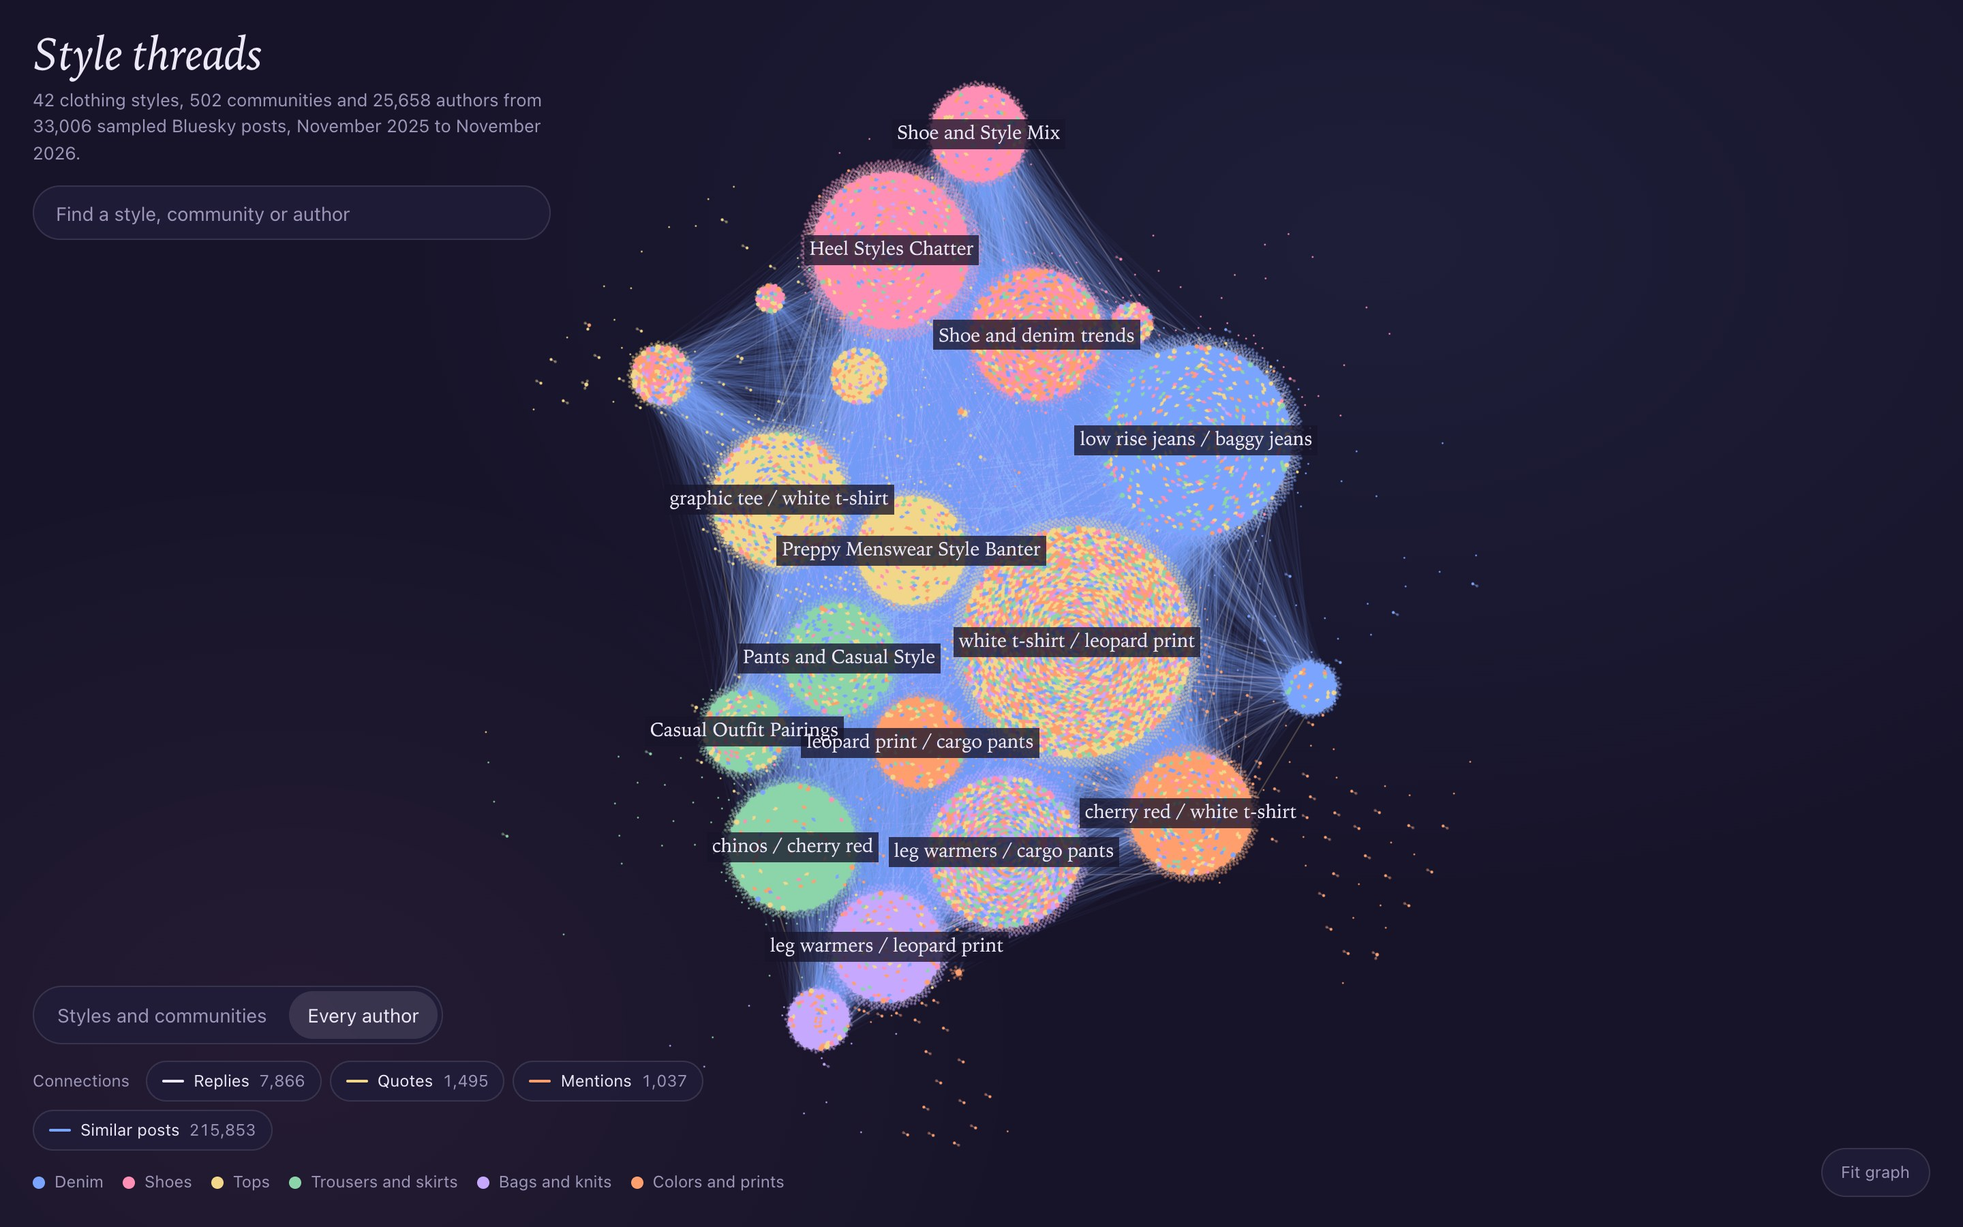
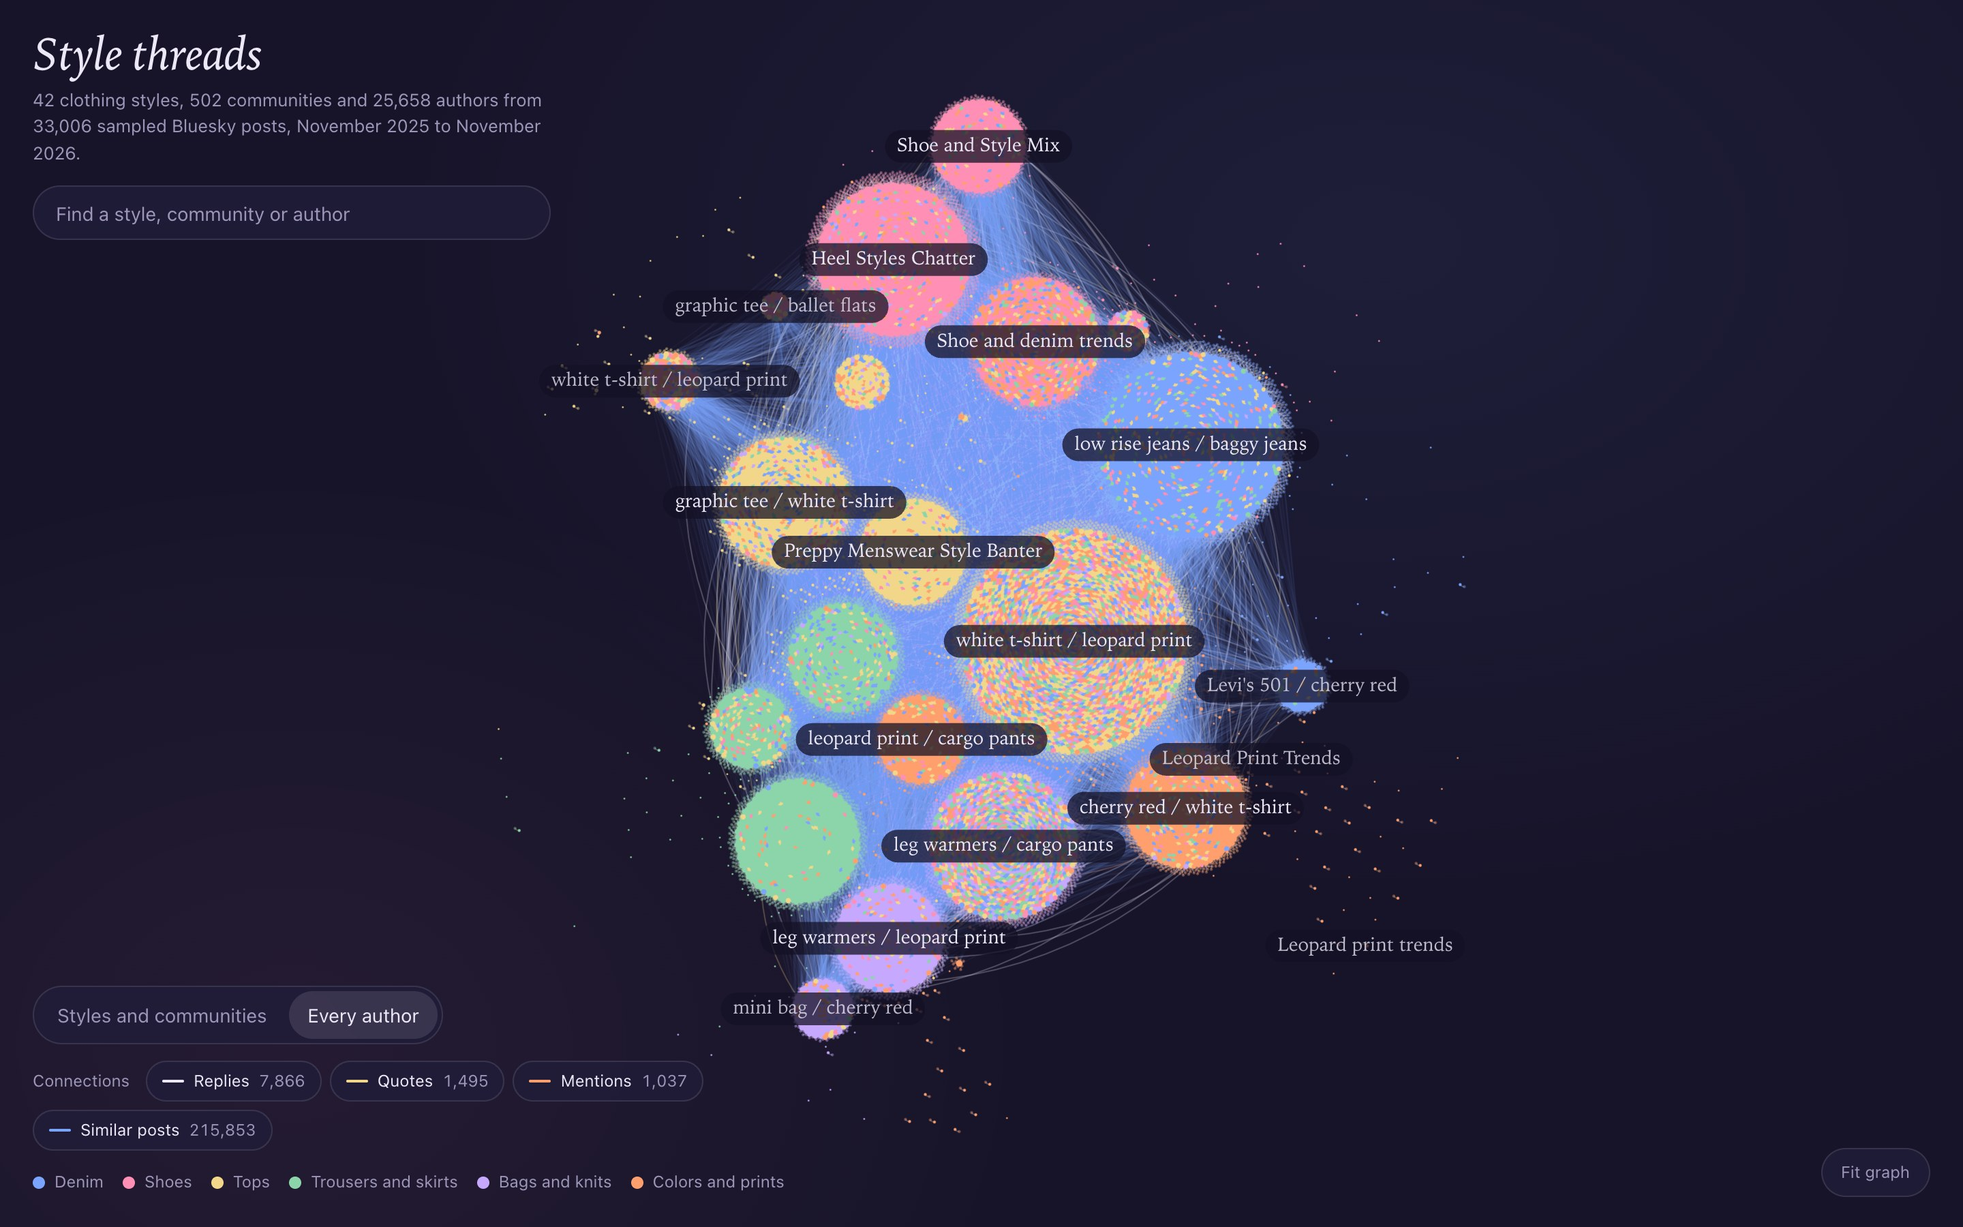
graph-explorer: curved threads, glows and haloed labels
- Labels and glows are drawn on 2D overlay canvases synced to sigma's afterRender: serif labels with a soft halo instead of boxes, pill labels over author discs, priority-ordered collision culling, rings on hover and selection.
- Edges use sigma's curved path (curvature is a style property, default 0). Threads from tiny communities are fainter; community beads are smaller.
- Style labels are separated at the renderer's real scale with measured text, so all 42 sit to the right of their own node.
- Overlay redraws after a view switch. Refreshed docs/images.

Changed region(s): [[0.2812, 0.0622, 0.6875, 0.8711], [0.6562, 0.7467, 0.7188, 0.7778]]

diff --git a/dashboard/graph.js b/dashboard/graph.js
@@ -102,20 +102,21 @@
       const angle = i * 2.399963;
       g.addNode(`c${c.id}`, {
         x: anchor.x + Math.cos(angle) * 12, y: anchor.y + Math.sin(angle) * 12,
-        size: 1.6 + Math.sqrt(c.authors) * 0.2, color: alpha(c.color, 0.7), baseColor: c.color,
+        size: 1.3 + Math.sqrt(c.authors) * 0.14, color: alpha(c.color, 0.62), baseColor: c.color,
         label: c.name, kind: "community", ref: c.id, family: c.family,
       });
     });
     // A community attaches only to the styles that define it: up to three with at least a
     // 15 percent share of its style posts. Every link is still listed in the inspector.
-    communities.forEach(({ id: c, top_styles: rows }) => {
+    communities.forEach(({ id: c, top_styles: rows, authors: size }) => {
       const total = rows.reduce((sum, [, p]) => sum + p, 0);
+      const presence = Math.min(1, 0.35 + Math.log10(1 + size) * 0.4);
       rows.forEach(([s, posts], rank) => {
         const share = posts / total;
         if (rank > 2 || (rank > 0 && share < 0.15)) return;
         g.mergeEdge(`s${s}`, `c${c}`, {
-          weight: 1 + share * 6, kind: "membership", color: alpha(styles[s].color, 0.16 + share * 0.3),
-          size: 0.5 + share * 2.2,
+          weight: 1 + share * 6, kind: "membership", color: alpha(styles[s].color, (0.08 + share * 0.24) * presence),
+          size: (0.3 + share * 1.3) * presence,
         });
       });
     });
@@ -180,7 +181,7 @@
       const edgeColor = key === "similarity" ? alpha(color, 0.05) : alpha(color, 0.3);
       for (let k = 0; k < flat.length; k += 2) {
         g.addEdgeWithKey(`${key}${k}`, `a${flat[k]}`, `a${flat[k + 1]}`, {
-          kind: key, color: edgeColor, size: key === "similarity" ? 0.3 : 0.6,
+          kind: key, color: edgeColor, size: key === "similarity" ? 0.3 : 0.6, path: key === "similarity" ? "line" : "curved",
         });
       }
     });
@@ -240,58 +241,36 @@
   function makeRenderer(g) {
     if (state.renderer) state.renderer.kill();
     const isAuthors = state.view === "authors";
-    // On phones the style labels are culled by density and revealed by zooming.
-    const narrow = window.innerWidth < 760;
     const renderer = new Sigma(g, $("stage"), {
       settings: {
+        // Labels and glows are drawn by drawOverlay() for halo text and real collision culling.
+        renderLabels: false,
         hideEdgesOnMove: isAuthors,
-        labelRenderedSizeThreshold: isAuthors ? 9 : 4,
-        labelDensity: isAuthors ? 0.4 : 0.8, labelGridCellSize: 90,
         zIndex: true, minCameraRatio: 0.02, maxCameraRatio: 4,
         // Sizes are screen pixels that grow gently on zoom, like Obsidian's graph view.
         itemSizesReference: "screen", zoomToSizeRatioFunction: (ratio) => Math.pow(ratio, 0.35),
-        stagePadding: 60,
+        stagePadding: 70,
       },
-      customGraphState: { focus: false, closeUp: false, litCount: 0 },
-      primitives: { depthLayers: ["edges", "nodes", "litEdges", "litNodes", "topNodes"] },
+      customGraphState: { focus: false },
+      primitives: {
+        depthLayers: ["edges", "nodes", "litEdges", "litNodes", "topNodes"],
+        // Threads: gently curved edges; straight lines for the dense similarity layer.
+        edges: { paths: [Sigma.rendering.pathLine(), Sigma.rendering.pathCurved({ curvature: 0.22, segments: 16 })] },
+      },
       styles: {
         nodes: [
           DEFAULT_STYLES.nodes,
-          {
-            color: { attribute: "color" }, size: { attribute: "size" }, label: { attribute: "label" },
-            labelColor: "#ECE8F7", labelSize: 13,
-            // Dark hover card instead of sigma's default white backdrop.
-            backdropColor: "rgba(32, 28, 56, 0.96)", backdropShadowColor: "rgba(5, 3, 15, 0.6)", backdropShadowBlur: 18,
-            labelFont: '"Iowan Old Style", "Palatino Linotype", Palatino, Georgia, serif',
-          },
-          { when: (a) => a.kind === "style", then: { labelSize: 15, labelVisibility: isAuthors || narrow ? "auto" : "visible",
-            labelBackgroundColor: "rgba(23, 20, 42, 0.72)", labelBackgroundPadding: 3 } },
-          { when: (a) => a.kind === "community", then: { labelColor: "rgba(236, 232, 247, 0.66)", labelSize: 11.5 } },
-          // Community labels appear on zoom, hover or selection so style names stay readable.
-          { when: (a, _s, gs) => a.kind === "community" && !a.anchor && !gs.closeUp, then: { labelVisibility: "hidden" } },
-          { when: (a) => a.anchor, then: { labelSize: 13, labelColor: "#ECE8F7", labelPosition: "over",
-            labelBackgroundColor: "rgba(23, 20, 42, 0.78)", labelBackgroundPadding: 4 } },
-          { when: (a) => a.anchor === "major", then: { labelVisibility: "visible", labelSize: 14 } },
-          { when: (a) => !nodeVisible(a), then: { color: DIM, label: "" } },
-          { when: (_a, s, gs) => gs.focus && !s.lit, then: { color: DIM, label: "" } },
+          { color: { attribute: "color" }, size: { attribute: "size" }, label: { attribute: "label" }, backdropVisibility: "hidden" },
+          { when: (a) => !nodeVisible(a), then: { color: DIM } },
+          { when: (_a, s, gs) => gs.focus && !s.lit, then: { color: DIM } },
           { whenState: "lit", then: { depth: "litNodes" } },
-          { when: (a, s) => s.lit && a.kind === "style", then: { labelVisibility: "visible" } },
-          { when: (a, s) => s.lit && a.kind === "community", then: { labelVisibility: "auto" } },
-          { when: (a, s, gs) => s.lit && a.kind === "author" && gs.litCount <= 25, then: { labelVisibility: "visible", labelSize: 12 } },
-          {
-            whenState: "isHovered",
-            then: { depth: "topNodes", labelVisibility: "visible", labelColor: "#ECE8F7",
-              labelBackgroundColor: "rgba(23, 20, 42, 0.92)", labelBackgroundPadding: 4 },
-          },
-          {
-            whenState: "selected",
-            then: { depth: "topNodes", labelVisibility: "visible", labelSize: 16, labelColor: "#ECE8F7",
-              labelBackgroundColor: "rgba(23, 20, 42, 0.92)", labelBackgroundPadding: 4 },
-          },
+          { whenState: "isHovered", then: { depth: "topNodes" } },
+          { whenState: "selected", then: { depth: "topNodes" } },
         ],
         edges: [
           DEFAULT_STYLES.edges,
-          { color: { attribute: "color" }, size: { attribute: "size" } },
+          { color: { attribute: "color" }, size: { attribute: "size" }, path: { attribute: "path", defaultValue: "curved" },
+            curvature: { attribute: "curvature", defaultValue: 0.24 } },
           { when: (a) => state.hiddenKinds.has(a.kind), then: { visibility: "hidden" } },
           { when: (a, s) => a.kind === "membership-minor" && !s.lit, then: { visibility: "hidden" } },
           { when: (_a, s, gs) => gs.focus && !s.lit, then: { visibility: "hidden" } },
@@ -299,17 +278,154 @@
         ],
       },
     });
-    renderer.getCamera().on("updated", ({ ratio }) => {
-      const closeUp = ratio < 0.45;
-      if (closeUp !== renderer.getGraphState().closeUp) renderer.setGraphState({ closeUp });
-    });
+    renderer.on("afterRender", drawOverlay);
     renderer.on("enterNode", ({ node, event }) => { state.hovered = node; applyFocus(); showTooltip(node, event); });
     renderer.on("leaveNode", () => { state.hovered = null; applyFocus(); $("tooltip").hidden = true; });
     renderer.on("clickNode", ({ node }) => select(node, { animate: true, keepZoom: true }));
     renderer.on("clickStage", () => clearSelection());
     state.renderer = renderer;
     state.graph = g;
+    // The constructor renders before state points at this graph; redraw the overlay for it now.
+    drawOverlay();
     return renderer;
+  }
+
+  // ---------- overlay: glows under the WebGL canvas, haloed labels above it ----------
+
+  const SERIF = '"Iowan Old Style", "Palatino Linotype", Palatino, Georgia, serif';
+  const overlay = { glow: null, labels: null };
+
+  function overlayCanvas(id, z) {
+    let canvas = document.getElementById(id);
+    if (!canvas) {
+      canvas = document.createElement("canvas");
+      canvas.id = id;
+      canvas.className = "overlay";
+      canvas.style.zIndex = z;
+      document.body.insertBefore(canvas, $("stage").nextSibling);
+    }
+    const dpr = window.devicePixelRatio || 1;
+    const w = window.innerWidth, h = window.innerHeight;
+    if (canvas.width !== Math.round(w * dpr) || canvas.height !== Math.round(h * dpr)) {
+      canvas.width = Math.round(w * dpr); canvas.height = Math.round(h * dpr);
+    }
+    const ctx = canvas.getContext("2d");
+    ctx.setTransform(dpr, 0, 0, dpr, 0, 0);
+    ctx.clearRect(0, 0, w, h);
+    return ctx;
+  }
+
+  function screenNode(node) {
+    const { renderer } = state;
+    const d = renderer.getNodeDisplayData(node);
+    if (!d) return null;
+    const p = renderer.framedGraphToViewport({ x: d.x, y: d.y });
+    return { x: p.x, y: p.y, r: renderer.scaleSize(d.size), d };
+  }
+
+  function drawOverlay() {
+    const { renderer, graph } = state;
+    if (!renderer || !graph) return;
+    const glow = overlayCanvas("glow-layer", 0);
+    const labels = overlayCanvas("label-layer", 2);
+    const W = window.innerWidth, H = window.innerHeight;
+    const focus = renderer.getGraphState().focus;
+    const ratio = renderer.getCamera().getState().ratio;
+    const onScreen = (p) => p && p.x > -60 && p.x < W + 60 && p.y > -60 && p.y < H + 60;
+
+    // Soft glows behind style nodes and anything lit, so the graph reads like light, not flat paper.
+    glow.globalCompositeOperation = "lighter";
+    graph.forEachNode((node, a) => {
+      const st = renderer.getNodeState(node);
+      const important = a.kind === "style" || st.lit || node === state.selected;
+      if (!important || (focus && !st.lit) || !nodeVisible(a)) return;
+      const p = screenNode(node);
+      if (!onScreen(p)) return;
+      const base = a.baseColor || a.color;
+      const radius = p.r * (node === state.selected || node === state.hovered ? 5 : 3.4);
+      const gradient = glow.createRadialGradient(p.x, p.y, p.r * 0.6, p.x, p.y, radius);
+      gradient.addColorStop(0, alpha(base.startsWith("#") ? base : "#ECE8F7", node === state.selected ? 0.42 : 0.24));
+      gradient.addColorStop(1, alpha(base.startsWith("#") ? base : "#ECE8F7", 0));
+      glow.fillStyle = gradient;
+      glow.beginPath(); glow.arc(p.x, p.y, radius, 0, Math.PI * 2); glow.fill();
+    });
+
+    // Labels in priority order. A label is skipped if its box would overlap one already drawn.
+    const candidates = [];
+    const add = (node, a, priority) => candidates.push({ node, a, priority });
+    graph.forEachNode((node, a) => {
+      const st = renderer.getNodeState(node);
+      if (!nodeVisible(a) && node !== state.selected) return;
+      if (node === state.selected) return add(node, a, 0);
+      if (node === state.hovered) return add(node, a, 1);
+      if (focus) {
+        if (!st.lit) return;
+        if (a.kind === "style") return add(node, a, 2);
+        if (a.kind === "community") return add(node, a, 3 + 1 / (1 + (a.size || 0)));
+        return add(node, a, 4 + 1 / (1 + (a.size || 0)));
+      }
+      if (a.kind === "style") return add(node, a, 2 + 1 / (1 + a.size));
+      if (a.anchor) return add(node, a, a.anchor === "major" ? 3 : 5);
+      if (a.kind === "community" && ratio < 0.45) return add(node, a, 6 + 1 / (1 + a.size));
+    });
+    candidates.sort((x, y) => x.priority - y.priority);
+    const placed = [];
+    // Style nodes reserve their own disc so no label is drawn over them.
+    graph.forEachNode((node, a) => {
+      if (a.kind !== "style" || (focus && !renderer.getNodeState(node).lit)) return;
+      const p = screenNode(node);
+      if (onScreen(p)) placed.push({ x: p.x - p.r, y: p.y - p.r, w: p.r * 2, h: p.r * 2 });
+    });
+    const overlaps = (box) => placed.some((b) => box.x < b.x + b.w && box.x + box.w > b.x && box.y < b.y + b.h && box.y + box.h > b.y);
+    labels.textBaseline = "middle";
+    labels.lineJoin = "round";
+    for (const { node, a, priority } of candidates) {
+      const p = screenNode(node);
+      if (!onScreen(p)) continue;
+      const strong = priority < 2 || a.kind === "style" || a.anchor === "major";
+      const size = node === state.selected ? 17 : a.kind === "style" ? (a.size > 14 ? 16 : 14.5) : a.anchor ? 14 : 12.5;
+      labels.font = `${a.kind === "author" ? "500 " : ""}${size}px ${a.kind === "author" ? "-apple-system, system-ui, sans-serif" : SERIF}`;
+      const text = a.label;
+      const width = labels.measureText(text).width;
+      // Candidate spots: right of the node first; styles may also sit left, above or below.
+      const gap = p.r + 7;
+      const spots = a.anchor ? [[p.x - width / 2, p.y]]
+        : a.kind === "style" || priority < 2 ? [[p.x + gap, p.y], [p.x - gap - width, p.y]] : [[p.x + gap, p.y]];
+      let chosen = null;
+      for (const [x, y] of spots) {
+        const pad = a.anchor ? 12 : 3;
+        const box = { x: x - pad, y: y - size * 0.62 - (a.anchor ? 4 : 0), w: width + pad * 2, h: size * 1.24 + (a.anchor ? 8 : 0) };
+        if (priority < 2 || !overlaps(box)) { chosen = { x, y, box }; break; }
+      }
+      if (!chosen) continue;
+      placed.push(chosen.box);
+      if (a.anchor) {
+        // Over busy author discs a soft pill reads better than a text halo.
+        const padX = 9, h = size + 10, x0 = chosen.x - padX, y0 = chosen.y - h / 2, w0 = width + padX * 2;
+        labels.fillStyle = "rgba(19, 16, 36, 0.74)";
+        labels.beginPath();
+        labels.roundRect ? labels.roundRect(x0, y0, w0, h, h / 2) : labels.rect(x0, y0, w0, h);
+        labels.fill();
+        labels.fillStyle = a.anchor === "major" ? "#ECE8F7" : "rgba(236, 232, 247, 0.78)";
+        labels.fillText(text, chosen.x, chosen.y);
+        continue;
+      }
+      labels.lineWidth = 4.5;
+      labels.strokeStyle = "rgba(19, 16, 36, 0.88)";
+      labels.strokeText(text, chosen.x, chosen.y);
+      labels.fillStyle = strong ? "#ECE8F7" : "rgba(236, 232, 247, 0.68)";
+      labels.fillText(text, chosen.x, chosen.y);
+    }
+
+    // Rings mark the hovered and selected nodes.
+    for (const node of [state.hovered, state.selected]) {
+      if (!node || !graph.hasNode(node)) continue;
+      const p = screenNode(node);
+      if (!onScreen(p)) continue;
+      labels.lineWidth = 1.5;
+      labels.strokeStyle = "rgba(236, 232, 247, 0.85)";
+      labels.beginPath(); labels.arc(p.x, p.y, p.r + 4, 0, Math.PI * 2); labels.stroke();
+    }
   }
 
   function applyFocus() {
@@ -328,7 +444,7 @@
     graph.forEachEdge((edge, attrs, source, target) => {
       renderer.setEdgeState(edge, { lit: !!anchor && (source === anchor || target === anchor) });
     });
-    renderer.setGraphState({ focus: !!anchor, litCount: lit.size });
+    renderer.setGraphState({ focus: !!anchor });
     renderer.refresh({ skipIndexation: true });
   }
 
@@ -387,10 +503,13 @@
     });
     const container = $("stage");
     const unitsPerPx = Math.max((maxX - minX) / (container.clientWidth * 0.62), (maxY - minY) / (container.clientHeight * 0.82));
-    const boxes = styles.map(({ node, a }) => ({
-      node, x: a.x, y: a.y,
-      w: (a.size * 2 + 10 + a.label.length * 8.2) * unitsPerPx, h: 22 * unitsPerPx, r: a.size * unitsPerPx,
-    }));
+    const measure = document.createElement("canvas").getContext("2d");
+    const boxes = styles.map(({ node, a }) => {
+      // Same font as drawOverlay, plus the halo and a little air.
+      measure.font = `${a.size > 14 ? 16 : 14.5}px ${SERIF}`;
+      const textWidth = measure.measureText(a.label).width;
+      return { node, x: a.x, y: a.y, w: (a.size + 7 + textWidth + 14) * unitsPerPx, h: 24 * unitsPerPx, r: a.size * unitsPerPx };
+    });
     for (let pass = 0; pass < 120; pass++) {
       let moved = false;
       for (let i = 0; i < boxes.length; i++) {
@@ -413,6 +532,50 @@
     boxes.forEach((b) => g.mergeNodeAttributes(b.node, { y: b.y }));
   }
 
+  // Second pass using the renderer's real scale: measured text and node radii, separated in graph units.
+  function separateOnScreen(g) {
+    const { renderer } = state;
+    const o = renderer.viewportToGraph({ x: 0, y: 0 }), e = renderer.viewportToGraph({ x: 100, y: 0 });
+    const unitsPerPx = Math.hypot(e.x - o.x, e.y - o.y) / 100;
+    const measure = document.createElement("canvas").getContext("2d");
+    const items = [];
+    g.forEachNode((node, a) => {
+      if (a.kind !== "style") return;
+      const r = renderer.scaleSize(a.size);
+      measure.font = `${a.size > 14 ? 16 : 14.5}px ${SERIF}`;
+      const w = measure.measureText(a.label).width;
+      // Clear zone: the node disc plus its label to the right, in graph units.
+      items.push({ node, x: a.x, y: a.y, left: (r + 6) * unitsPerPx, right: (r + 7 + w + 8) * unitsPerPx,
+        half: (Math.max(r, 11) + 3) * unitsPerPx });
+    });
+    let passes = 0;
+    for (; passes < 800; passes++) {
+      let moved = false;
+      for (let i = 0; i < items.length; i++) {
+        for (let j = i + 1; j < items.length; j++) {
+          const A = items[i], B = items[j];
+          const ox = Math.min(A.x + A.right, B.x + B.right) - Math.max(A.x - A.left, B.x - B.left);
+          const oy = Math.min(A.y + A.half, B.y + B.half) - Math.max(A.y - A.half, B.y - B.half);
+          if (ox > 0 && oy > 0) {
+            // Separate along the axis that needs the smaller move.
+            if (oy <= ox) {
+              const dir = A.y <= B.y ? -1 : 1, d = oy / 2 + unitsPerPx * 0.5;
+              A.y += dir * d; B.y -= dir * d;
+            } else {
+              const dir = A.x <= B.x ? -1 : 1, d = ox / 2 + unitsPerPx * 0.5;
+              A.x += dir * d; B.x -= dir * d;
+            }
+            moved = true;
+          }
+        }
+      }
+      if (!moved) break;
+    }
+    state.labelPasses = passes;
+    items.forEach((it) => g.mergeNodeAttributes(it.node, { x: it.x, y: it.y }));
+    renderer.refresh();
+  }
+
   // ---------- views ----------
 
   function showMap() {
@@ -432,7 +595,9 @@
       separateStyleLabels(g);
       state.mapPositions = {};
       g.forEachNode((node, a) => { state.mapPositions[node] = { x: a.x, y: a.y }; });
-      state.renderer.getCamera().reset({ duration: REDUCED_MOTION ? 0 : 600 });
+      // Refine label spacing at the renderer's real scale, then store the final positions.
+      separateOnScreen(g);
+      g.forEachNode((node, a) => { state.mapPositions[node] = { x: a.x, y: a.y }; });
       if (state.pendingView === "authors") { state.pendingView = null; showAuthors(); return; }
       restoreSelection();
     });
@@ -827,6 +992,7 @@
       return renderer.framedGraphToViewport({ x: d.x, y: d.y });
     },
     ready: () => !!state.mapPositions,
+    labelPasses: () => state.labelPasses ?? null,
     overlaps: () => state.clusterOverlaps,
   };
 

diff --git a/dashboard/graph.css b/dashboard/graph.css
@@ -33,7 +33,8 @@ body {
   -webkit-font-smoothing: antialiased;
 }
 
-.stage { position: fixed; inset: 0; }
+.stage { position: fixed; inset: 0; z-index: 1; }
+.overlay { position: fixed; inset: 0; width: 100vw; height: 100vh; pointer-events: none; }
 .stage canvas { outline: none; }
 
 .visually-hidden {
